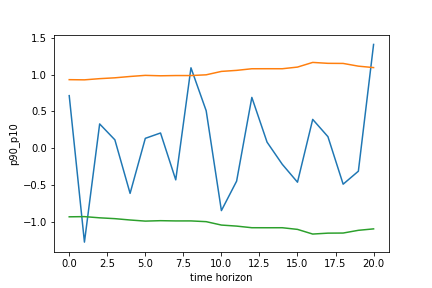
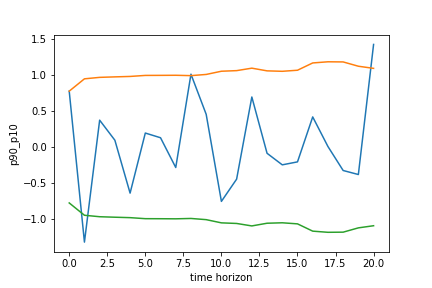
LP with top and bottom expenditures

diff --git a/analysis/7_LP_estimation.py b/analysis/7_LP_estimation.py
@@ -24,9 +24,24 @@ p90_p10 = data.loc[:157]["90-10"]
 p90_p10.name = "p90_p10"
 
 
+exp_10 = pd.read_pickle("../out_data_mngment/data_for_final_analysis/exp_series_p10")
+exp_10 = exp_10.sort_values(by=["year", "month"])
+exp_10 = exp_10["exp_p1-p10"]
+exp_10.index = range(len(exp_10))
+exp_10 = exp_10[:158]
+
+
+exp_90 = pd.read_pickle("../out_data_mngment/data_for_final_analysis/exp_series_p90")
+exp_90 = exp_90.sort_values(by=["year", "month"])
+exp_90 = exp_90["exp_p90-p100"]
+exp_90.index = range(len(exp_90))
+exp_90 = exp_90[:158]
+
+
 shock_series = pd.read_excel(
     "../original_data/Shocks_data/RR_MPshocks_Updated.xls", sheet_name="Sheet1"
 )
+
 
 # shock_series = pd.concat(
 #    [data.loc[0:157]["year"], data.loc[0:157]["month"], shock_series], axis=1
@@ -35,13 +50,13 @@ shock_series = pd.read_excel(
 # create data frame of regressors (don't changes with horizon h) for each ineq. measure
 
 X = {}
-for k in [stdev, gini_coeff, p90_p10]:
+for k in [stdev, gini_coeff, p90_p10,exp_10,exp_90]:
     X[k.name] = pd.DataFrame()
     X[k.name]["const"] = np.ones(len(shock_series))
     for i in range(5):
         X[k.name]["rr_L" + str(i)] = shock_series["Shock_values"].shift(i)
     for j in range(1, 3):
-        X[k.name]["dy_" + str(j)] = stdev.shift(j) - stdev.shift(j + 1)
+        X[k.name]["dy_" + str(j)] = k.shift(j) - k.shift(j + 1)
 
 
 # prepare dataframes for impulse responses and standard deviations
@@ -58,16 +73,16 @@ irf_pval = pd.DataFrame(
 )
 
 
-for k in [stdev, gini_coeff, p90_p10]:
+for k in [stdev, gini_coeff, p90_p10,exp_10,exp_90]:
     for h in range(21):
         y = k.shift(-h) - k.shift(-(h - 1))
         reg = sm.OLS(endog=y, exog=X[k.name], missing="drop").fit()
         irf_values.loc[h, k.name] = reg.params[1]
         irf_st_dev.loc[h, k.name] = reg.bse[1]
         irf_pval.loc[h, k.name] = reg.pvalues[1]
-    plt.plot(irf_values[k.name],label="irf")
-    plt.plot( 2 * irf_st_dev[k.name],label='2_st_dev_up')
-    plt.plot( -2 * irf_st_dev[k.name],label='2_st_dev_down')
+    plt.plot(irf_values[k.name], label="irf")
+    plt.plot(2 * irf_st_dev[k.name], label="2_st_dev_up")
+    plt.plot(-2 * irf_st_dev[k.name], label="2_st_dev_down")
     plt.xlabel("time horizon")
     plt.ylabel(k.name)
     plt.savefig("../out_figures/" + k.name)

diff --git a/InfInequality/6_CEX_CPI_expenditure_shares.py b/InfInequality/6_CEX_CPI_expenditure_shares.py
@@ -105,12 +105,36 @@ for n, i in enumerate(listdir(
     ]
 
 
-# ----------------
+# --------------------------
 # Save data sets of real_exp
-# ----------------
+# --------------------------
     real_exp_j_i.to_pickle("../out_data_mngment/data_for_final_analysis/cex_real_exp_"+i[7:])
 
 # ----------------
 # Save data sets of inequality measures
 # ----------------
 ineq_data.to_pickle("../out_data_mngment/data_for_final_analysis/data_inequality")
+
+#--------------------------------------------------------------------
+# Construct series of real consumptions for 10th and 90th percentiles
+#--------------------------------------------------------------------
+
+real_exp_90=pd.DataFrame(columns=['year','month','exp_p90-p100'])
+real_exp_10=pd.DataFrame(columns=['year','month','exp_p1-p10'])
+
+for n,i in enumerate(listdir("../data_for_final_analysis/")[:-1]):
+       df= pd.read_pickle("../data_for_final_analysis/"+i)
+       real_exp_10.loc[n]=[
+       i.split('__')[1].split('_')[1],
+       i.split('__')[1].split('_')[0],
+       np.mean(np.log(df["real_exp"][df["Percentile"]<=10]))
+       ]
+       real_exp_90.loc[n]=[
+       i.split('__')[1].split('_')[1],
+       i.split('__')[1].split('_')[0],
+       np.mean(np.log(df["real_exp"][df["Percentile"]>=91]))
+       ]
+       
+real_exp_10.to_pickle("../out_data_mngment/data_for_final_analysis/exp_series_p10")
+real_exp_90.to_pickle("../out_data_mngment/data_for_final_analysis/exp_series_p90")
+
